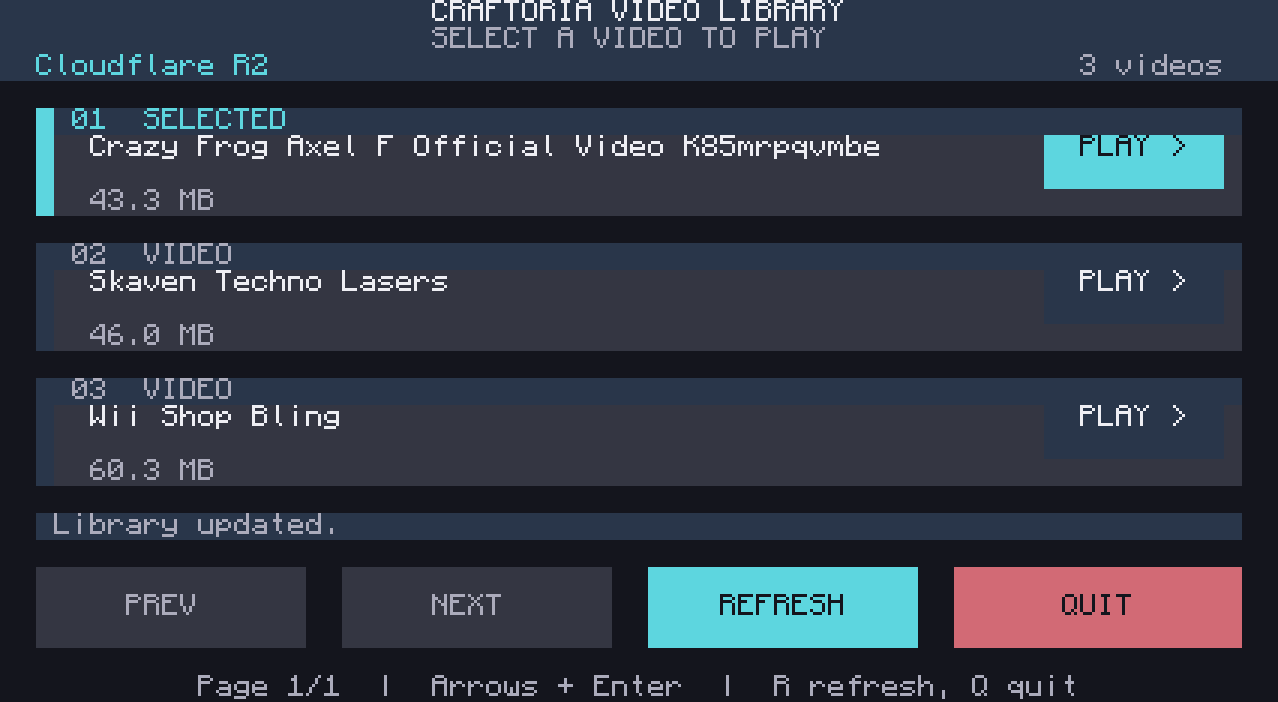
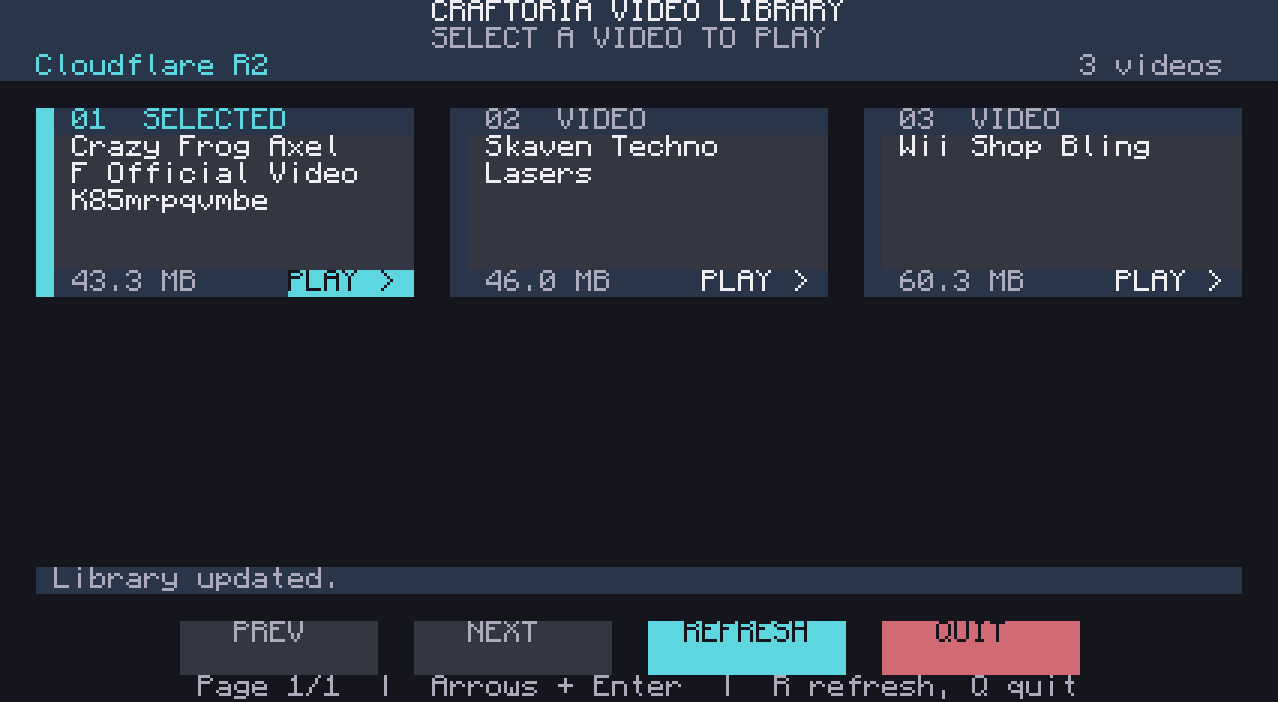
feat: compact video menu into a touch grid

diff --git a/README.md b/README.md
@@ -7,40 +7,40 @@ A CC:Tweaked video player for a **7-wide x 4-high Advanced Monitor wall**, with 
 Stop the existing player with Ctrl+T. Download the updated script to a fresh filename and launch it directly:
 
 ```text
-wget https://raw.githubusercontent.com/Mavial/craftoria-video-player/main/video.lua video-touch.lua
-video-touch.lua
+wget https://raw.githubusercontent.com/Mavial/craftoria-video-player/main/video.lua video-grid.lua
+video-grid.lua
 ```
 
-Choose an unused filename if `video-touch.lua` already exists. The player discovers directly attached and wired-network Advanced Monitors and chooses the largest wall that fits the current 143x52-character recordings. It uses text scale **1.0 for the menu** when the display has enough room, and switches to **0.5 for playback** to preserve the recording's full resolution. Smaller screens use a compact menu at 0.5, with a clear size error if a recording does not fit. With no Advanced Monitor connected, the menu stays on the computer for keyboard use. The R2 catalogue URL is already configured.
+Choose an unused filename if `video-grid.lua` already exists. The player discovers directly attached and wired-network Advanced Monitors and chooses the largest wall that fits the current 143x52-character recordings. It uses text scale **1.0 for the menu** when the display has enough room, and switches to **0.5 for playback** to preserve the recording's full resolution. Smaller screens use a compact menu at 0.5, with a clear size error if a recording does not fit. With no Advanced Monitor connected, the menu stays on the computer for keyboard use. The R2 catalogue URL is already configured.
 
-If several displays are connected and you want a particular wall, run `set video.monitor monitor_5` with its peripheral name, then launch the player. Use `set video.monitor nil` to return to automatic selection. The old `monitor MONITOR_NAME video-touch.lua` command still works, keeps its explicitly chosen monitor, and configures its scale automatically. Quit, errors and Ctrl+T restore the previous terminal. Touches on other monitors and mouse clicks in the computer GUI do not control an automatically selected wall.
+If several displays are connected and you want a particular wall, run `set video.monitor monitor_5` with its peripheral name, then launch the player. Use `set video.monitor nil` to return to automatic selection. The old `monitor MONITOR_NAME video-grid.lua` command still works, keeps its explicitly chosen monitor, and configures its scale automatically. Quit, errors and Ctrl+T restore the previous terminal. Touches on other monitors and mouse clicks in the computer GUI do not control an automatically selected wall.
 
 To run at computer boot, copy the player to an unused startup filename:
 
 ```text
-copy video-touch.lua startup.lua
+copy video-grid.lua startup.lua
 ```
 
-If this computer already has a startup script, use `shell.run("video-touch.lua")` in that script instead. If you previously copied the whole old player into `startup.lua`, replace that player copy with the updated version.
+If this computer already has a startup script, use `shell.run("video-grid.lua")` in that script instead. If you previously copied the whole old player into `startup.lua`, replace that player copy with the updated version.
 
-Tap anywhere on a video card to play, including its header, title, size label or PLAY area. The SCADA-inspired menu uses dark panels, cyan selection accents and full-height Previous, Next, Refresh and Quit buttons. Long titles wrap across two lines on the wall. Page buttons are disabled when there is no previous/next page; spaces between cards do not start playback. The layout adapts to smaller computer screens and monitor resizing.
+Tap anywhere on a video card to play, including its header, title, size label or PLAY area. The SCADA-inspired menu uses dark panels and cyan selection accents, with **six cards per page in a 3x2 grid on the 7x4 wall**. Wider displays fit four columns (eight cards at the same height), and a standard computer uses two columns. Long titles wrap within each card. Previous, Next, Refresh and Quit are compact buttons, two character rows tall and at most eleven columns wide. Page buttons are disabled when there is no previous/next page; spaces between cards and empty cells do not start playback. The layout adapts to smaller screens and monitor resizing.
 
-Use Up/Down and Enter from the computer for keyboard selection. Touch during playback or press Backspace to stop and return to the menu. Completed videos return automatically, with the larger menu scale and its palette restored. Left/Right changes pages, R refreshes, and Q quits.
+Use arrow keys to move through the grid and Enter to play. Page Up/Page Down or the mouse wheel changes pages, R refreshes, and Q quits. Touch during playback or press Backspace to stop and return to the menu. Completed videos return automatically, with the larger menu scale and its palette restored.
 
 ![Touch menu on a 7x4 monitor wall](previews/menu-7x4.png)
 
-This preview renders the actual Lua menu's character cells with the installed CC:Tweaked font and an example catalogue; it is not an in-world screenshot. A [compact computer preview](previews/menu-computer.png) is also available.
+This preview renders the actual Lua menu's character cells with the installed CC:Tweaked font and the three-recording catalogue; it is not an in-world screenshot. [Six-card](previews/menu-six-cards.png), [eight-card](previews/menu-eight-cards.png) and [compact computer](previews/menu-computer.png) previews are also available. The full-page previews add placeholder entries only for illustration; these examples are not uploaded to R2.
 
-The menu lists the `.32vid` objects under `videos/` in the dedicated `craftoria-video-player` R2 bucket. A Cloudflare Worker builds the catalogue dynamically, follows R2 pagination, and streams recordings from the bucket. Upload or delete a converted recording in that prefix, then click Refresh to update the menu. Each row includes the file size. See [R2 deployment and upload instructions](r2/README.md).
+The menu lists the `.32vid` objects under `videos/` in the dedicated `craftoria-video-player` R2 bucket. A Cloudflare Worker builds the catalogue dynamically, follows R2 pagination, and streams recordings from the bucket. Upload or delete a converted recording in that prefix, then click Refresh to update the menu. Each card includes the file size. See [R2 deployment and upload instructions](r2/README.md).
 
 HTTP access must allow `craftoria-video-player.raftoria.workers.dev`. The list loads on launch and on explicit refresh; playback uses the current session's list. A failed refresh keeps the previous list and displays the error. Video files are downloaded over HTTP and are not saved to the computer disk. The player retains its GitHub source adapter for migration and continues to accept direct file/URL arguments.
 
 ## Play Wii Shop Bling
 
-Use the updated `video-touch.lua`; monitor discovery and scale setup are automatic:
+Use the updated `video-grid.lua`; monitor discovery and scale setup are automatic:
 
 ```text
-video-touch.lua https://craftoria-video-player.raftoria.workers.dev/videos/wii-shop-bling.32vid
+video-grid.lua https://craftoria-video-player.raftoria.workers.dev/videos/wii-shop-bling.32vid
 ```
 
 Hold Ctrl+T in the computer GUI to stop the previous recording before entering the new command. The new recording starts at the beginning; the YouTube radio playlist is not included.
@@ -48,7 +48,7 @@ Hold Ctrl+T in the computer GUI to stop the previous recording before entering t
 For a new computer, download the player first:
 
 ```text
-wget https://raw.githubusercontent.com/Mavial/craftoria-video-player/main/video.lua video-touch.lua
+wget https://raw.githubusercontent.com/Mavial/craftoria-video-player/main/video.lua video-grid.lua
 ```
 
 The ten-second test clip has been removed from R2 and GitHub; click Refresh in the menu to update the list.
@@ -75,7 +75,7 @@ The current R2 recordings use **24-30 FPS**, 286x156 subpixels (143 columns x 52
 
 Use 28 joined Advanced Monitors, one dedicated Advanced Computer and one connected Speaker. The computer may touch the wall directly or connect over wired modems and Networking Cable. HTTP playback avoids writing the full recording to the computer disk. The server must permit the configured R2 Worker hostname.
 
-The current higher frame rate recordings are hosted on R2. The GitHub v1.1.0 release retains the original 7 FPS Wii recording; its root `manifest.json` and `verification.json` describe that historical version. Test clips were removed from hosting. Current R2 conversion, checksum and simulated playback results are under `recordings/`. `menu-verification.json` records checks using the installed CC:Tweaked scheduler and monitor program with simulated peripherals and catalogues: full card/button touch targets, automatic monitor selection, menu/playback scale switching, responsive layout bounds, resize handling, touch isolation, terminal restoration, pinned displays, legacy launches, disconnection/termination cleanup, keyboard selection, pagination, refresh, errors, stopping, replay and audio state. The Worker checks cover catalogue pagination, exact download bytes, metadata, and route restrictions. The R2 menu, playback and automatic monitor startup were confirmed working in-world by the user; the new touch layout was checked with simulated peripherals and rendered for visual review.
+The current higher frame rate recordings are hosted on R2. The GitHub v1.1.0 release retains the original 7 FPS Wii recording; its root `manifest.json` and `verification.json` describe that historical version. Test clips were removed from hosting. Current R2 conversion, checksum and simulated playback results are under `recordings/`. `menu-verification.json` records checks using the installed CC:Tweaked scheduler and monitor program with simulated peripherals and catalogues: six/eight-card grids, sparse final pages, spatial keyboard navigation, full card/button touch targets, automatic monitor selection, menu/playback scale switching, responsive layout bounds, resize handling, touch isolation, terminal restoration, pinned displays, legacy launches, disconnection/termination cleanup, keyboard selection, pagination, refresh, errors, stopping, replay and audio state. The Worker checks cover catalogue pagination, exact download bytes, metadata, and route restrictions. The R2 menu, playback and automatic monitor startup were confirmed working in-world by the user; the compact grid layout was checked with simulated peripherals and rendered for visual review.
 
 ## Upstream and licensing
 
